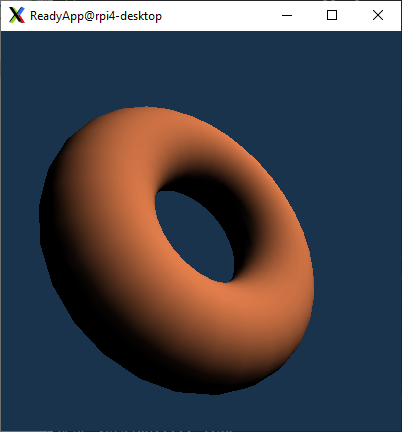
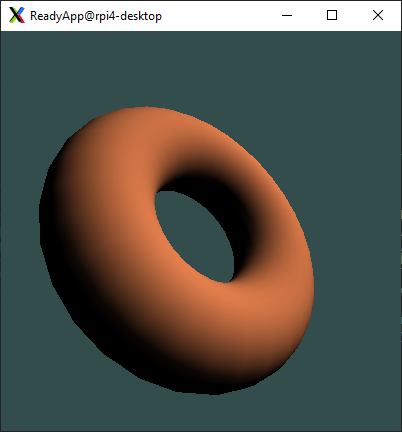
Initial Commit

diff --git a/Tutoriels/Software_Development/Cpp/page/main.php b/Tutoriels/Software_Development/Cpp/page/main.php
@@ -10198,7 +10198,7 @@ void GOpenGLUi::run(int argc, char** argv) {
     lOpenGL.shader2(lApp-&gt;shader_vertex_file, lApp-&gt;shader_fragment_file);
     lOpenGL.use();
 
-    lParams.bgcolor = {0.1f, 0.2f, 0.3f, 1.f};
+    lParams.bgcolor = {0.2f, 0.3f, 0.3f, 1.f};
 
     lParams.mvp2.model.identity();
     lParams.mvp2.model.rotate(-35.0f, 1.0f, 0.0f, 0.0f);
@@ -10213,9 +10213,6 @@ void GOpenGLUi::run(int argc, char** argv) {
     lTorus.torus(0.7f, 0.3f, 30, 30);
     lTorus.init();
     lTorus.clear();
-
-    lOpenGL.info();
-    lOpenGL.debug();
 
     while(!lOpenGL.isClose()) {
         lOpenGL.bgcolor2(lParams.bgcolor);
